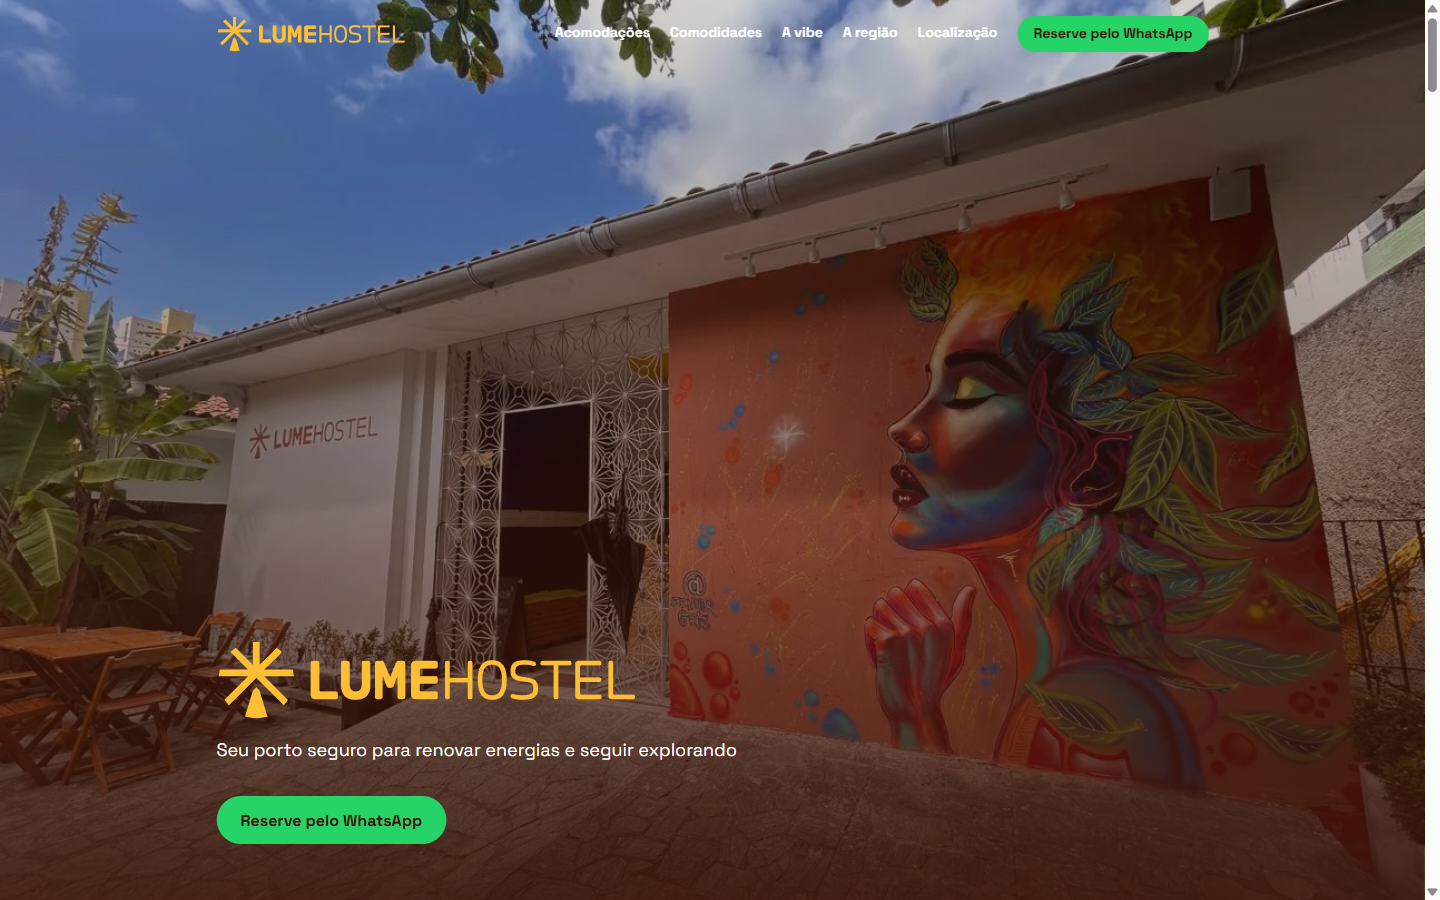
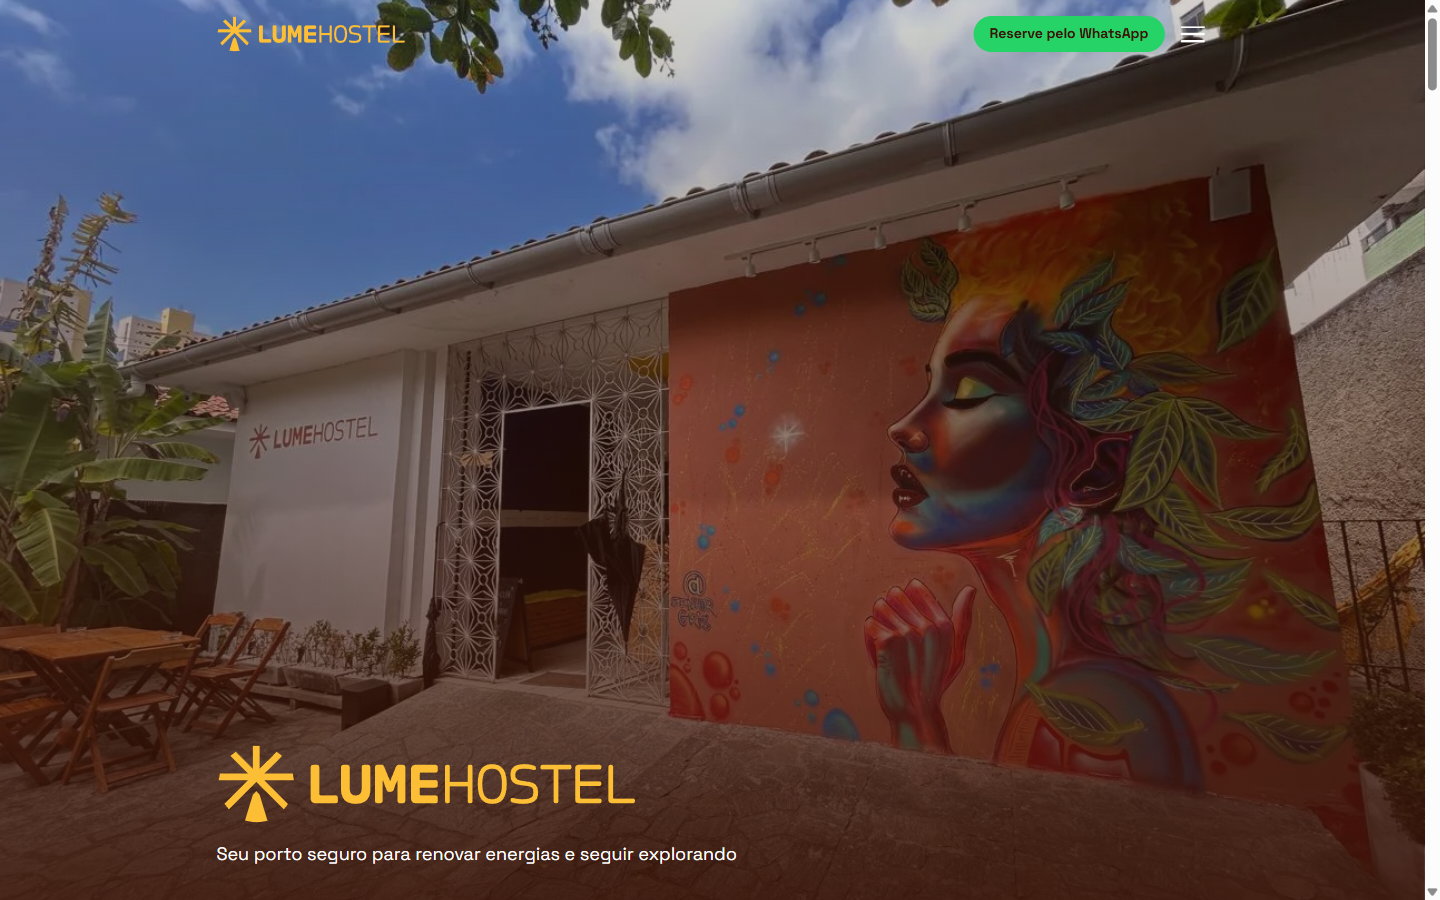
Atualiza prova de trabalho do LumeHostel e antecipa o degrade para O Resultado
Capturas desktop/mobile refeitas contra o site em producao, refletindo o
nav novo (hamburguer, sem botao duplicado na hero). O breu solido do
degrade da pagina passa a cobrir so Hero + QuemSouEu; a cor comeca a
entrar ja no inicio de O Resultado (27.3% medido), nao mais no Como
Funciona.

Changed region(s): [[0.125, 0.7156, 0.5, 0.9644], [0.375, 0.0, 0.8438, 0.0622]]

diff --git a/site/src/styles/global.css b/site/src/styles/global.css
@@ -20,10 +20,10 @@
 }
 
 /* Fase 3: o fundo da página é um degradê contínuo breu -> âmbar (a lâmpada
-   acendendo ao longo da rolagem). Breu solido cobre Hero + QuemSouEu +
-   ProvaDeTrabalho; a cor começa a entrar exatamente no ComoFunciona
-   (medido: 41.4% em desktop e 37.4% em mobile) e chega em âmbar cheio pouco
-   antes do CtaFinal (~89.6%), que fica na zona clara.
+   acendendo ao longo da rolagem). Breu sólido cobre Hero + QuemSouEu; a cor
+   começa a entrar já no início de O Resultado/ProvaDeTrabalho (medido:
+   27.3% em desktop e 33.5% em mobile, usado o valor de desktop) e chega em
+   âmbar cheio pouco antes do CtaFinal (~89.6%), que fica na zona clara.
    Specs: docs/superpowers/specs/2026-07-19-site-degrade-fase3-design.md e
    docs/superpowers/specs/2026-07-20-site-prova-de-trabalho-design.md */
 .pagina-degrade {
@@ -31,7 +31,7 @@
   background: linear-gradient(
     180deg,
     #0a0a09 0%,
-    #0a0a09 41.4%,
+    #0a0a09 27.3%,
     #241812 50.6%,
     #4a2a17 60.9%,
     #8a4a24 72.2%,
